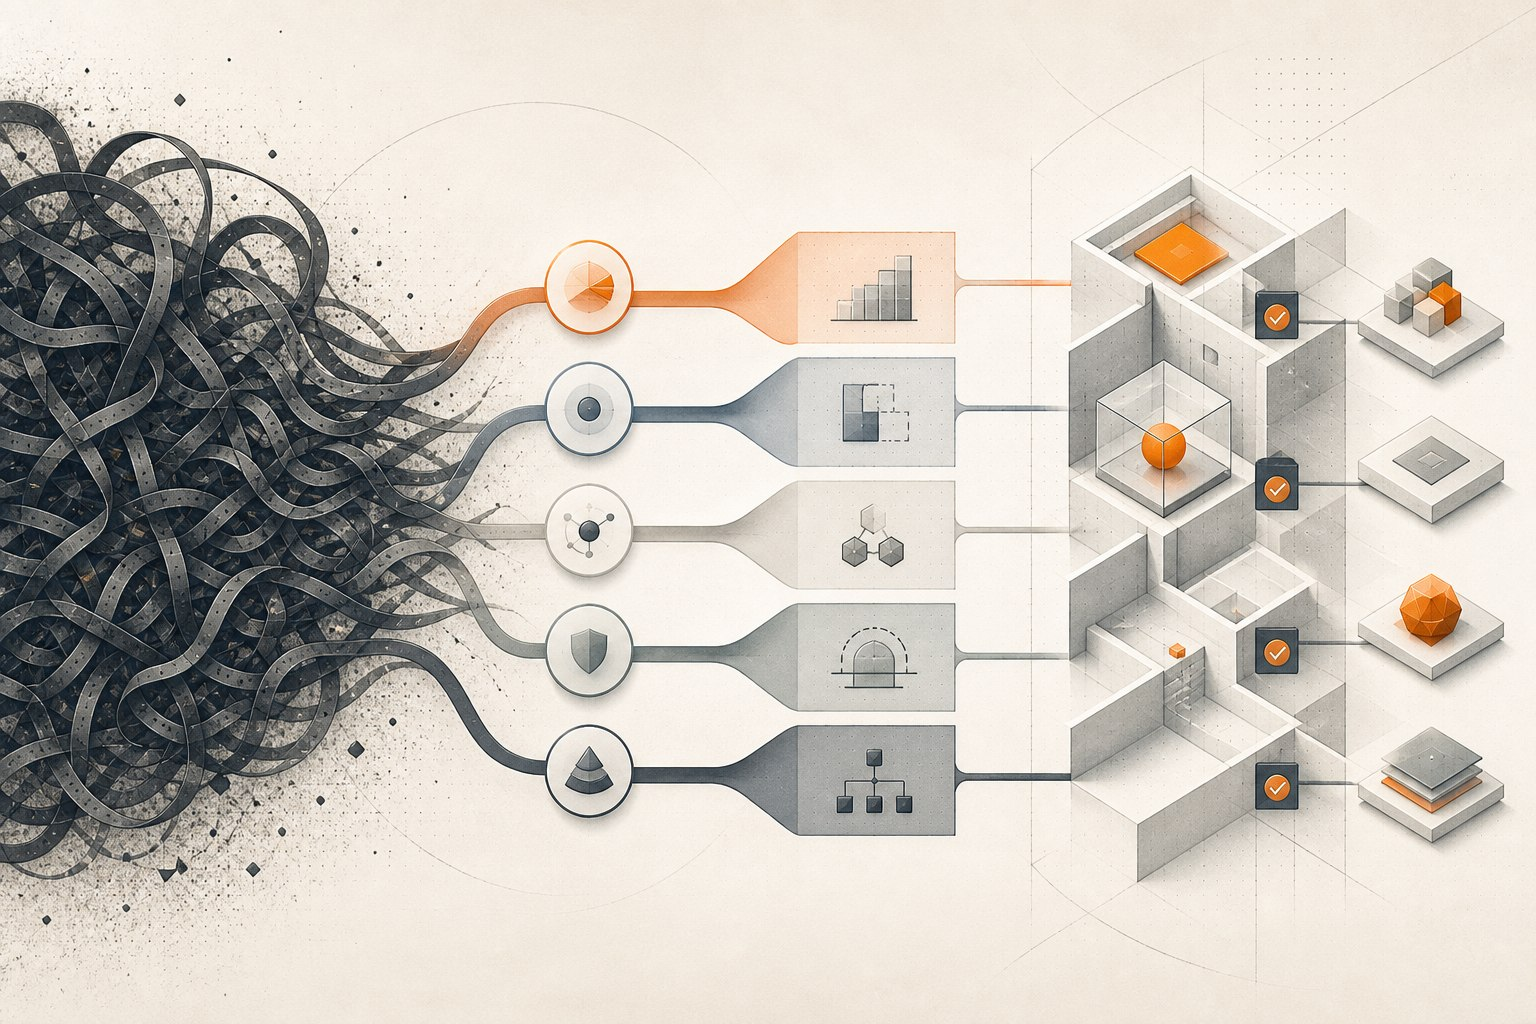
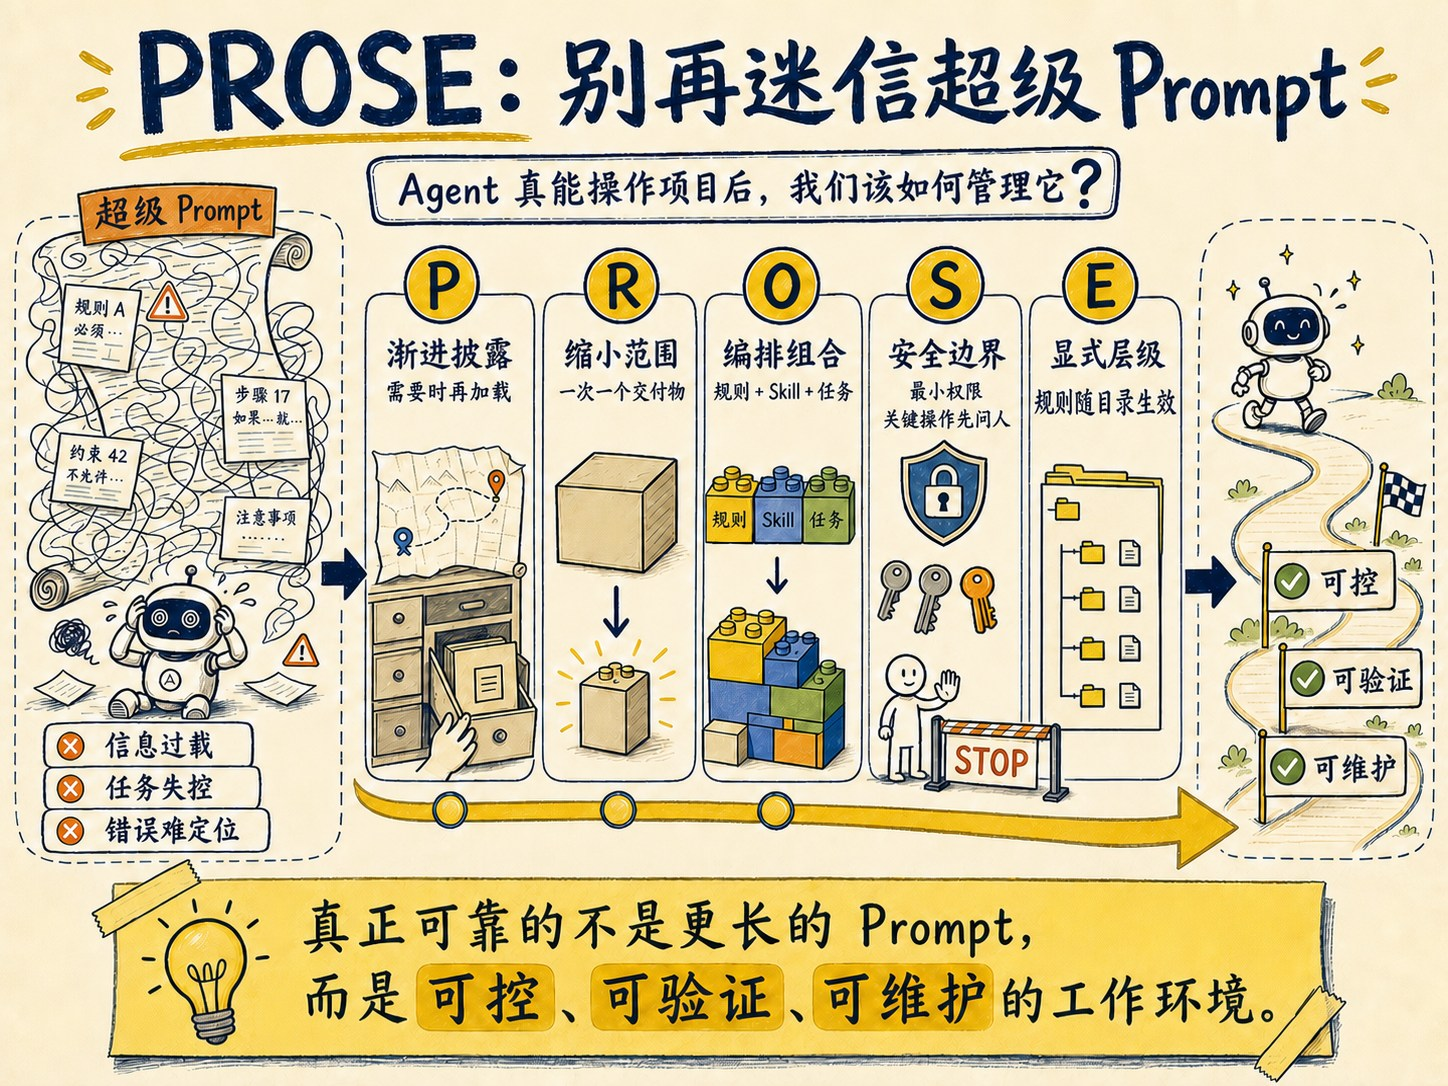
Add localized PROSE header infographics

diff --git a/blog-prose-agent-framework-ja.html b/blog-prose-agent-framework-ja.html
@@ -7,9 +7,9 @@
     <title>AIに数千字のPromptを詰め込まない：PROSE Agent開発フレームワーク入門 · 阿川</title>
     <link rel="canonical" href="https://www.agawa5642.com/blog-prose-agent-framework-ja.html">
     <link rel="alternate" hreflang="zh" href="https://www.agawa5642.com/blog-prose-agent-framework.html"><link rel="alternate" hreflang="en" href="https://www.agawa5642.com/blog-prose-agent-framework-en.html"><link rel="alternate" hreflang="ja" href="https://www.agawa5642.com/blog-prose-agent-framework-ja.html"><link rel="alternate" hreflang="x-default" href="https://www.agawa5642.com/blog-prose-agent-framework.html">
-    <meta property="og:type" content="article"><meta property="og:title" content="AIに数千字のPromptを詰め込まない：PROSE Agent開発フレームワーク入門"><meta property="og:description" content="AIにコードを書かせる段階から、Agentが確実にプロジェクトを完遂できる段階へ進むための5原則。"><meta property="og:url" content="https://www.agawa5642.com/blog-prose-agent-framework-ja.html"><meta property="og:site_name" content="Agawa / 阿川"><meta property="og:locale" content="ja_JP"><meta property="og:locale:alternate" content="zh_CN"><meta property="og:locale:alternate" content="en_US"><meta property="og:image" content="https://www.agawa5642.com/assets/images/blog-prose-agent-framework.jpg">
-    <meta name="twitter:card" content="summary_large_image"><meta name="twitter:title" content="PROSE Agent開発フレームワーク入門"><meta name="twitter:description" content="Coding Agentの作業環境を、制御可能・モジュール化・検証可能に設計する方法。"><meta name="twitter:image" content="https://www.agawa5642.com/assets/images/blog-prose-agent-framework.jpg">
-    <script type="application/ld+json">{"@context":"https://schema.org","@type":"BlogPosting","headline":"AIに数千字のPromptを詰め込まない：PROSE Agent開発フレームワーク入門","description":"Prompt EngineeringからAgent Engineeringへ。制御可能で検証可能なCoding Agent環境を設計するPROSEの5原則を解説します。","image":"https://www.agawa5642.com/assets/images/blog-prose-agent-framework.jpg","inLanguage":"ja","datePublished":"2026-08-27","dateModified":"2026-08-27","author":{"@type":"Person","name":"Agawa","alternateName":"阿川"},"mainEntityOfPage":{"@type":"WebPage","@id":"https://www.agawa5642.com/blog-prose-agent-framework-ja.html"},"url":"https://www.agawa5642.com/blog-prose-agent-framework-ja.html"}</script>
+    <meta property="og:type" content="article"><meta property="og:title" content="AIに数千字のPromptを詰め込まない：PROSE Agent開発フレームワーク入門"><meta property="og:description" content="AIにコードを書かせる段階から、Agentが確実にプロジェクトを完遂できる段階へ進むための5原則。"><meta property="og:url" content="https://www.agawa5642.com/blog-prose-agent-framework-ja.html"><meta property="og:site_name" content="Agawa / 阿川"><meta property="og:locale" content="ja_JP"><meta property="og:locale:alternate" content="zh_CN"><meta property="og:locale:alternate" content="en_US"><meta property="og:image" content="https://www.agawa5642.com/assets/images/blog-prose-agent-framework-ja.jpg">
+    <meta name="twitter:card" content="summary_large_image"><meta name="twitter:title" content="PROSE Agent開発フレームワーク入門"><meta name="twitter:description" content="Coding Agentの作業環境を、制御可能・モジュール化・検証可能に設計する方法。"><meta name="twitter:image" content="https://www.agawa5642.com/assets/images/blog-prose-agent-framework-ja.jpg">
+    <script type="application/ld+json">{"@context":"https://schema.org","@type":"BlogPosting","headline":"AIに数千字のPromptを詰め込まない：PROSE Agent開発フレームワーク入門","description":"Prompt EngineeringからAgent Engineeringへ。制御可能で検証可能なCoding Agent環境を設計するPROSEの5原則を解説します。","image":"https://www.agawa5642.com/assets/images/blog-prose-agent-framework-ja.jpg","inLanguage":"ja","datePublished":"2026-08-27","dateModified":"2026-08-30","author":{"@type":"Person","name":"Agawa","alternateName":"阿川"},"mainEntityOfPage":{"@type":"WebPage","@id":"https://www.agawa5642.com/blog-prose-agent-framework-ja.html"},"url":"https://www.agawa5642.com/blog-prose-agent-framework-ja.html"}</script>
     <link rel="icon" href="assets/images/favicon.svg" type="image/svg+xml"><link rel="stylesheet" href="assets/css/styles.css"><script src="assets/js/main.js?v=seo-20260827" defer></script>
   </head>
   <body data-page="blog" data-article-lang="ja">
@@ -18,7 +18,7 @@
     <main id="content" class="page-shell article-page article-page-ja article-page-prose"><article class="article-shell reveal">
       <a class="article-back" href="blog.html">Back to Blog</a>
       <header class="article-header"><p class="issue-label">Web Journal / Agent Engineering</p><h1>AIに数千字のPromptを詰め込まない：PROSE Agent開発フレームワーク入門</h1><p class="article-subtitle">「AIにコードを書かせる」から「Agentがプロジェクトを確実に完遂する」へ進むための5原則</p><p class="meta-line">2026/08/27 / AI / Agent Engineering</p></header>
-      <figure class="article-hero-figure"><img src="assets/images/blog-prose-agent-framework.jpg" alt="絡み合う指示の流れが5本のモジュール化された検証可能なAgentワークフローへ整理されるイラスト" width="1536" height="1024" loading="eager" fetchpriority="high" decoding="async"><figcaption>長大化する一つのPromptから、階層化され、境界を持ち、検証できるAgentシステムへ。</figcaption></figure>
+      <figure class="article-hero-figure"><img src="assets/images/blog-prose-agent-framework-ja.jpg" alt="巨大なPromptの情報過多から、段階的開示、範囲縮小、構成の編成、安全境界、明示的階層へ進むPROSEの5原則を示す手描きインフォグラフィック" width="1448" height="1086" loading="eager" fetchpriority="high" decoding="async"><figcaption>長大化する一つのPromptから、階層化され、境界を持ち、検証できるAgentシステムへ。</figcaption></figure>
       <div class="article-body">
         <section class="article-opening"><h2>AIが実際のプロジェクト開発に参加し始めたとき</h2><p>ChatGPTにコードを書かせていた頃、考えるべきことは主に「Promptをどう書くか」でした。要望を伝え、コードをコピーし、実行し、エラーが出たら再び質問する。しかしClaude Code、Codex、GitHub CopilotなどのCoding Agentは、リポジトリ全体を読み、ファイルを検索・編集し、ターミナルを操作し、テストやGit履歴を確認しながら複数の工程を連続実行できます。</p><p>問いは「どう頼むか」だけではなく、<strong>AIがプロジェクト全体を操作できるなら、どう管理すべきか</strong>に変わりました。TypeScript、データベース、API、セキュリティ、UI、Gitの規則を一つの <code>AGENTS.md</code> に足し続ける方法は自然に見えます。しかし、情報量が増えても注意が正確になるとは限らず、誤りの原因も追いにくくなります。</p><p>PROSEは、この問題をAgentの作業環境そのものの設計問題として扱います。</p></section>
         <section><h2>深掘り：PROSEとは何か</h2><p>PROSEは新しいプログラミング言語でも、インストールするソフトウェアでもありません。Agentic Software Developmentのための工学的な規律です。</p><div class="article-table-wrap"><table><thead><tr><th>原則</th><th>意味</th><th>解決する問題</th></tr></thead><tbody><tr><td>P</td><td>Progressive Disclosure</td><td>Agentが一度に見る情報が多すぎる</td></tr><tr><td>R</td><td>Reduced Scope</td><td>一度に渡す作業が大きすぎる</td></tr><tr><td>O</td><td>Orchestrated Composition</td><td>Promptが複雑化し続ける</td></tr><tr><td>S</td><td>Safety Boundaries</td><td>Agentの権限が広すぎる</td></tr><tr><td>E</td><td>Explicit Hierarchy</td><td>作用範囲の違う規則が混在する</td></tr></tbody></table></div><blockquote><p>正しいタイミングで、必要な情報だけを見せ、明確な一つの仕事だけを任せ、本当に必要な対象だけを操作させる。</p></blockquote><p>以下では、利用者がログインしてイベントを閲覧・申込し、管理者が参加者一覧を確認する「学内イベント申込サイト」を例に考えます。</p></section>

diff --git a/blog-prose-agent-framework-en.html b/blog-prose-agent-framework-en.html
@@ -10,9 +10,9 @@
     <link rel="alternate" hreflang="en" href="https://www.agawa5642.com/blog-prose-agent-framework-en.html">
     <link rel="alternate" hreflang="ja" href="https://www.agawa5642.com/blog-prose-agent-framework-ja.html">
     <link rel="alternate" hreflang="x-default" href="https://www.agawa5642.com/blog-prose-agent-framework.html">
-    <meta property="og:type" content="article"><meta property="og:title" content="Stop Stuffing AI with Thousand-Word Prompts: The PROSE Agent Development Framework"><meta property="og:description" content="Five principles for moving from asking AI to write code toward helping agents complete projects reliably."><meta property="og:url" content="https://www.agawa5642.com/blog-prose-agent-framework-en.html"><meta property="og:site_name" content="Agawa / 阿川"><meta property="og:locale" content="en_US"><meta property="og:locale:alternate" content="zh_CN"><meta property="og:locale:alternate" content="ja_JP"><meta property="og:image" content="https://www.agawa5642.com/assets/images/blog-prose-agent-framework.jpg">
-    <meta name="twitter:card" content="summary_large_image"><meta name="twitter:title" content="The PROSE Agent Development Framework"><meta name="twitter:description" content="Design a controlled, modular, and verifiable working environment for coding agents."><meta name="twitter:image" content="https://www.agawa5642.com/assets/images/blog-prose-agent-framework.jpg">
-    <script type="application/ld+json">{"@context":"https://schema.org","@type":"BlogPosting","headline":"Stop Stuffing AI with Thousand-Word Prompts: The PROSE Agent Development Framework","description":"Move from prompt engineering to agent engineering with the five PROSE principles for controlled, verifiable coding-agent work.","image":"https://www.agawa5642.com/assets/images/blog-prose-agent-framework.jpg","inLanguage":"en","datePublished":"2026-08-27","dateModified":"2026-08-27","author":{"@type":"Person","name":"Agawa","alternateName":"阿川"},"mainEntityOfPage":{"@type":"WebPage","@id":"https://www.agawa5642.com/blog-prose-agent-framework-en.html"},"url":"https://www.agawa5642.com/blog-prose-agent-framework-en.html"}</script>
+    <meta property="og:type" content="article"><meta property="og:title" content="Stop Stuffing AI with Thousand-Word Prompts: The PROSE Agent Development Framework"><meta property="og:description" content="Five principles for moving from asking AI to write code toward helping agents complete projects reliably."><meta property="og:url" content="https://www.agawa5642.com/blog-prose-agent-framework-en.html"><meta property="og:site_name" content="Agawa / 阿川"><meta property="og:locale" content="en_US"><meta property="og:locale:alternate" content="zh_CN"><meta property="og:locale:alternate" content="ja_JP"><meta property="og:image" content="https://www.agawa5642.com/assets/images/blog-prose-agent-framework-en.jpg">
+    <meta name="twitter:card" content="summary_large_image"><meta name="twitter:title" content="The PROSE Agent Development Framework"><meta name="twitter:description" content="Design a controlled, modular, and verifiable working environment for coding agents."><meta name="twitter:image" content="https://www.agawa5642.com/assets/images/blog-prose-agent-framework-en.jpg">
+    <script type="application/ld+json">{"@context":"https://schema.org","@type":"BlogPosting","headline":"Stop Stuffing AI with Thousand-Word Prompts: The PROSE Agent Development Framework","description":"Move from prompt engineering to agent engineering with the five PROSE principles for controlled, verifiable coding-agent work.","image":"https://www.agawa5642.com/assets/images/blog-prose-agent-framework-en.jpg","inLanguage":"en","datePublished":"2026-08-27","dateModified":"2026-08-30","author":{"@type":"Person","name":"Agawa","alternateName":"阿川"},"mainEntityOfPage":{"@type":"WebPage","@id":"https://www.agawa5642.com/blog-prose-agent-framework-en.html"},"url":"https://www.agawa5642.com/blog-prose-agent-framework-en.html"}</script>
     <link rel="icon" href="assets/images/favicon.svg" type="image/svg+xml"><link rel="stylesheet" href="assets/css/styles.css"><script src="assets/js/main.js?v=seo-20260827" defer></script>
   </head>
   <body data-page="blog" data-article-lang="en">
@@ -21,7 +21,7 @@
     <main id="content" class="page-shell article-page article-page-en article-page-prose"><article class="article-shell reveal">
       <a class="article-back" href="blog.html">Back to Blog</a>
       <header class="article-header"><p class="issue-label">Web Journal / Agent Engineering</p><h1>Stop Stuffing AI with Thousand-Word Prompts: The PROSE Agent Development Framework</h1><p class="article-subtitle">Five core principles for moving from “make AI write code” to “help an agent complete a project reliably”</p><p class="meta-line">2026/08/27 / AI / Agent Engineering</p></header>
-      <figure class="article-hero-figure"><img src="assets/images/blog-prose-agent-framework.jpg" alt="A tangled instruction stream resolving into five modular and verified agent workflows" width="1536" height="1024" loading="eager" fetchpriority="high" decoding="async"><figcaption>Moving from one ever-growing prompt to a layered, bounded, and verifiable agent system.</figcaption></figure>
+      <figure class="article-hero-figure"><img src="assets/images/blog-prose-agent-framework-en.jpg" alt="Hand-drawn infographic of the five PROSE principles, moving from mega-prompt overload to progressive disclosure, reduced scope, orchestrated composition, safety boundaries, and explicit hierarchy" width="1448" height="1086" loading="eager" fetchpriority="high" decoding="async"><figcaption>Moving from one ever-growing prompt to a layered, bounded, and verifiable agent system.</figcaption></figure>
       <div class="article-body">
         <section class="article-opening"><h2>When AI Starts Participating in Real Project Work</h2><p>When we used ChatGPT to write code, the main question was usually, “How should I phrase the prompt?” We described what we wanted, copied the code, ran it, brought the error back, and continued. Coding agents such as Claude Code, Codex, and GitHub Copilot have changed that arrangement. They can read a repository, search and edit files, invoke a terminal, run tests, inspect Git history, and carry out several development steps in sequence.</p><p>The question is no longer only how to ask. It is now: <strong>if AI can operate across an entire project, how should we manage it?</strong> A common response is to keep expanding one <code>AGENTS.md</code> with every TypeScript, database, API, security, UI, and Git rule. Yet more information does not guarantee more accurate attention. It can make mistakes more likely and their causes harder to trace.</p><p>PROSE addresses this problem by treating the agent’s working environment as an engineering system.</p></section>
         <section><h2>A Closer Look: What Is PROSE?</h2><p>PROSE is neither a programming language nor software you install. It is an engineering discipline for agentic software development.</p><div class="article-table-wrap"><table><thead><tr><th>Principle</th><th>Meaning</th><th>Problem addressed</th></tr></thead><tbody><tr><td>P</td><td>Progressive Disclosure</td><td>The agent sees too much at once</td></tr><tr><td>R</td><td>Reduced Scope</td><td>A single assignment is too large</td></tr><tr><td>O</td><td>Orchestrated Composition</td><td>The prompt keeps becoming more complex</td></tr><tr><td>S</td><td>Safety Boundaries</td><td>The agent has excessive authority</td></tr><tr><td>E</td><td>Explicit Hierarchy</td><td>Rules with different scopes are mixed together</td></tr></tbody></table></div><blockquote><p>At the right moment, let the agent see only the right information, complete one clear task, and operate only what the task genuinely requires.</p></blockquote><p>To make the principles concrete, imagine a campus-event registration site where users sign in, browse events, register, and administrators review attendee lists.</p></section>

diff --git a/blog-prose-agent-framework.html b/blog-prose-agent-framework.html
@@ -23,7 +23,7 @@
     <meta name="twitter:title" content="别再给 AI 塞几千字 Prompt：一文读懂 PROSE Agent 开发框架">
     <meta name="twitter:description" content="用 PROSE 五项原则设计可控、可验证的 Coding Agent 工作环境。">
     <meta name="twitter:image" content="https://www.agawa5642.com/assets/images/blog-prose-agent-framework.jpg">
-    <script type="application/ld+json">{"@context":"https://schema.org","@type":"BlogPosting","headline":"别再给 AI 塞几千字 Prompt：一文读懂 PROSE Agent 开发框架","description":"从 Prompt Engineering 走向 Agent Engineering：用 PROSE 五项原则设计可控、可验证的 Coding Agent 工作环境。","image":"https://www.agawa5642.com/assets/images/blog-prose-agent-framework.jpg","inLanguage":"zh","datePublished":"2026-08-27","dateModified":"2026-08-27","author":{"@type":"Person","name":"Agawa","alternateName":"阿川"},"mainEntityOfPage":{"@type":"WebPage","@id":"https://www.agawa5642.com/blog-prose-agent-framework.html"},"url":"https://www.agawa5642.com/blog-prose-agent-framework.html"}</script>
+    <script type="application/ld+json">{"@context":"https://schema.org","@type":"BlogPosting","headline":"别再给 AI 塞几千字 Prompt：一文读懂 PROSE Agent 开发框架","description":"从 Prompt Engineering 走向 Agent Engineering：用 PROSE 五项原则设计可控、可验证的 Coding Agent 工作环境。","image":"https://www.agawa5642.com/assets/images/blog-prose-agent-framework.jpg","inLanguage":"zh","datePublished":"2026-08-27","dateModified":"2026-08-30","author":{"@type":"Person","name":"Agawa","alternateName":"阿川"},"mainEntityOfPage":{"@type":"WebPage","@id":"https://www.agawa5642.com/blog-prose-agent-framework.html"},"url":"https://www.agawa5642.com/blog-prose-agent-framework.html"}</script>
     <link rel="icon" href="assets/images/favicon.svg" type="image/svg+xml">
     <link rel="stylesheet" href="assets/css/styles.css">
     <script src="assets/js/main.js?v=seo-20260827" defer></script>
@@ -39,7 +39,7 @@
       <article class="article-shell reveal">
         <a class="article-back" href="blog.html">Back to Blog</a>
         <header class="article-header"><p class="issue-label">Web Journal / Agent Engineering</p><h1>别再给 AI 塞几千字 Prompt：一文读懂 PROSE Agent 开发框架</h1><p class="article-subtitle">从“让 AI 写代码”到“让 Agent 可靠地完成项目”，理解 AI Agent 项目开发的五条核心原则</p><p class="meta-line">2026/08/27 / AI / Agent Engineering</p></header>
-        <figure class="article-hero-figure"><img src="assets/images/blog-prose-agent-framework.jpg" alt="纠缠的指令流被整理成五条模块化、带验证节点的 Agent 工作路径" width="1536" height="1024" loading="eager" fetchpriority="high" decoding="async"><figcaption>从一条越来越长的 Prompt，转向分层、受控并可验证的 Agent 工作系统。</figcaption></figure>
+        <figure class="article-hero-figure"><img src="assets/images/blog-prose-agent-framework.jpg" alt="PROSE 五项原则手绘信息图：从超级 Prompt 的信息过载，走向渐进披露、缩小范围、编排组合、安全边界与显式层级" width="1448" height="1086" loading="eager" fetchpriority="high" decoding="async"><figcaption>从一条越来越长的 Prompt，转向分层、受控并可验证的 Agent 工作系统。</figcaption></figure>
         <div class="article-body">
           <section class="article-opening"><h2>当 AI 开始真正参与项目开发</h2><p>过去使用 ChatGPT 写代码，我们通常只考虑“Prompt 应该怎么写”。告诉 AI 想要什么，复制代码、运行、报错，再回来继续问。但 Claude Code、Codex、GitHub Copilot 等 Coding Agent 已经可以阅读仓库、搜索和修改文件、调用终端、运行测试并连续执行多个开发步骤。</p><p>于是问题从“怎样提问”变成了：<strong>如果 AI 真的可以操作整个项目，我们应该怎样管理它？</strong>很多人的第一反应，是把 TypeScript、数据库、API、安全、Git 等所有规则不断塞进一个越来越长的 <code>AGENTS.md</code>。然而，信息越多并不代表注意越准确，超长 Prompt 反而让错误更难定位。</p><p>PROSE 正是为此提出的一套 Coding Agent 工作环境设计方法。</p></section>
           <section><h2>深度拆解：什么是 PROSE？</h2><p>PROSE 不是编程语言，也不是需要安装的软件框架，而是一套面向 Agentic Software Development 的工程纪律。</p><div class="article-table-wrap"><table><thead><tr><th>原则</th><th>含义</th><th>解决的问题</th></tr></thead><tbody><tr><td>P</td><td>Progressive Disclosure</td><td>AI 一次看到的信息太多</td></tr><tr><td>R</td><td>Reduced Scope</td><td>一次交给 AI 的任务太大</td></tr><tr><td>O</td><td>Orchestrated Composition</td><td>Prompt 越写越复杂</td></tr><tr><td>S</td><td>Safety Boundaries</td><td>AI 权限过大</td></tr><tr><td>E</td><td>Explicit Hierarchy</td><td>所有规则混在一起</td></tr></tbody></table></div><blockquote><p>让 Agent 在正确的时候，只看到正确的信息，只完成一个清晰的任务，并且只能操作它真正需要操作的东西。</p></blockquote><p>下面以一个校园活动报名网站为例：用户可以登录、查看活动并报名，管理员可以查看报名名单。</p></section>
